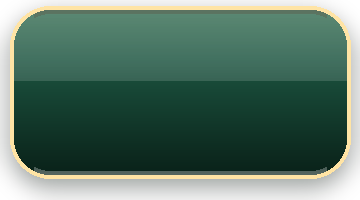
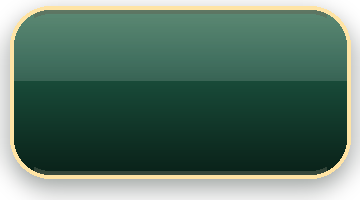
art: plaque aura + warmer bevel, preview resync

Changed region(s): [[0.0917, 0.84, 0.9167, 0.9]]

diff --git a/game-android/app/src/main/java/ir/mivehchin/game/Art.kt b/game-android/app/src/main/java/ir/mivehchin/game/Art.kt
@@ -1281,7 +1281,7 @@ object Art {
 
     /** Nine-slice insets, in bitmap pixels, for the stretchable pieces. */
     private const val INSET_FRAME = 58f
-    private const val INSET_PLAQUE = 58f
+    private const val INSET_PLAQUE = 62f
     private const val INSET_BUTTON = 52f
     private const val INSET_CAPSULE = 46f
 

diff --git a/tools/make-art.py b/tools/make-art.py
@@ -101,9 +101,9 @@ def bevel(img, box, radius, t, top=90, bottom=120):
     for i in range(steps):
         k = i / (steps - 1)
         if k < 0.22:
-            col = (42, 18, 0, int(top * (1 - k / 0.22)))
-        elif k > 0.78:
-            col = (255, 255, 255, int(bottom * ((k - 0.78) / 0.22)))
+            col = (52, 22, 2, int(top * 0.9 * (1 - k / 0.22)))
+        elif k > 0.82:
+            col = (255, 238, 208, int(bottom * 0.62 * ((k - 0.82) / 0.18)))
         else:
             continue
         y = box[1] + (box[3] - box[1]) * k
@@ -236,22 +236,31 @@ def make_frame():
 
 
 def make_plaque():
-    img = Image.new("RGBA", (420, 170), (0, 0, 0, 0))
-    box = (6, 6, 414, 164)
+    img = Image.new("RGBA", (452, 202), (0, 0, 0, 0))
+    box = (16, 18, 436, 184)
     rad = 44
     # gold aura
-    shape(img, (box[0] - 10, box[1] - 10, box[2] + 10, box[3] + 10), int(rad * 1.16),
+    shape(img, (box[0] - 12, box[1] - 12, box[2] + 12, box[3] + 12), int(rad * 1.16),
           [(0, (255, 244, 196, 255)), (0.5, (232, 178, 82, 255)), (1, (150, 96, 14, 255))])
-    drop_shadow(img, box, rad, dy=10, blur=14, strength=140)
-    shape(img, box, rad, [(0, (140, 90, 50, 255)), (0.30, (104, 60, 28, 255)),
-                          (0.72, (78, 42, 18, 255)), (1, (52, 26, 10, 255))])
-    # three soft grain bands, drawn wide so stretching never turns them into stripes
-    d = ImageDraw.Draw(img)
-    for k in range(3):
-        gy = box[1] + 30 + k * (box[3] - box[1] - 60) / 2.0
-        d.line([(box[0] + 26, gy), (box[2] - 26, gy)], fill=(46, 22, 8, 26), width=5)
+    drop_shadow(img, box, rad, dy=10, blur=14, strength=150)
+    shape(img, box, rad, [(0, (162, 106, 62, 255)), (0.26, (126, 74, 36, 255)),
+                          (0.62, (98, 54, 24, 255)), (1, (62, 32, 12, 255))])
+    # one wide soft highlight: the middle nine-slice band stretches horizontally,
+    # so only horizontal features survive without turning into stripes
+    hi = Image.new("RGBA", img.size, (0, 0, 0, 0))
+    ImageDraw.Draw(hi).rounded_rectangle(
+        (box[0] + 18, box[1] + 14, box[2] - 18, box[1] + (box[3] - box[1]) * 0.42), rad,
+        fill=(255, 236, 200, 34))
+    hi = hi.filter(ImageFilter.GaussianBlur(6))
+    img.alpha_composite(hi)
+    shade = Image.new("RGBA", img.size, (0, 0, 0, 0))
+    ImageDraw.Draw(shade).rounded_rectangle(
+        (box[0] + 18, box[3] - (box[3] - box[1]) * 0.30, box[2] - 18, box[3] - 10), rad,
+        fill=(38, 16, 4, 46))
+    shade = shade.filter(ImageFilter.GaussianBlur(7))
+    img.alpha_composite(shade)
     bevel(img, box, rad, 8, 120, 140)
-    gloss(img, box, rad, top=0.30, strength=64)
+    d = ImageDraw.Draw(img)
     for sx in (box[0] + 30, box[2] - 30):
         cy = (box[1] + box[3]) // 2
         d.ellipse((sx - 13, cy - 13, sx + 13, cy + 13), fill=(154, 106, 12, 255))

diff --git a/game-android/design-preview/mock_result_170.py b/game-android/design-preview/mock_result_170.py
@@ -150,7 +150,7 @@ def main():
     sprite(img, "lemon", INNER[2] - PW * 0.105, GARDEN_TOP + GARDEN_H * 0.46, PW * 0.098)
 
     # ---------------------------------------------------------------- plaque
-    nine(img, load("plaque"), PLAQUE, 58)
+    nine(img, load("plaque"), PLAQUE, 62)
     ph = PLAQUE[3] - PLAQUE[1]
     sprite(img, "crown", (PLAQUE[0] + PLAQUE[2]) / 2, PLAQUE[1] - ph * 0.02, ph * 0.46)
     sprite(img, "flower_pink", PLAQUE[0] + ph * 0.35, (PLAQUE[1] + PLAQUE[3]) / 2, ph * 0.20)
@@ -164,8 +164,7 @@ def main():
     # ------------------------------------------------------------------ chip
     cx0, cy0, cx1, cy1 = CHIP
     ch = cy1 - cy0
-    vgrad(img, CHIP, ch / 2, [(0, (156, 98, 52, 255)), (0.55, (107, 63, 28, 255)), (1, (62, 33, 16, 255))])
-    d.rounded_rectangle(CHIP, ch / 2, outline=(255, 201, 77, 235), width=max(1, int(ch * 0.05)))
+    nine(img, load("pill_dark"), CHIP, 46)
     text(img, ((cx0 + cx1) / 2, (cy0 + cy1) / 2 + ch * 0.14), "سطح ۱۲ • باغ بهار", ch * 0.38,
          (255, 246, 226, 255), stroke=1, stroke_fill=(52, 26, 6, 255))
 
@@ -178,9 +177,7 @@ def main():
 
     # ----------------------------------------------------------- score plate
     sh = SCORE[3] - SCORE[1]
-    vgrad(img, SCORE, sh * 0.30, [(0, (46, 156, 99, 255)), (0.35, (23, 116, 79, 255)),
-                                  (1, (3, 32, 15, 255))])
-    d.rounded_rectangle(SCORE, sh * 0.30, outline=(255, 217, 138, 230), width=3)
+    nine(img, load("plate_emerald"), SCORE, 52)
     text(img, ((SCORE[0] + SCORE[2]) / 2, SCORE[1] + sh * 0.28), "امتیاز", sh * 0.19, (207, 238, 220, 255))
     text(img, ((SCORE[0] + SCORE[2]) / 2, SCORE[3] - sh * 0.16), "۱۴۵۷", sh * 0.42,
          (255, 252, 242, 255), stroke=int(sh * 0.05), stroke_fill=(3, 32, 15, 255))
